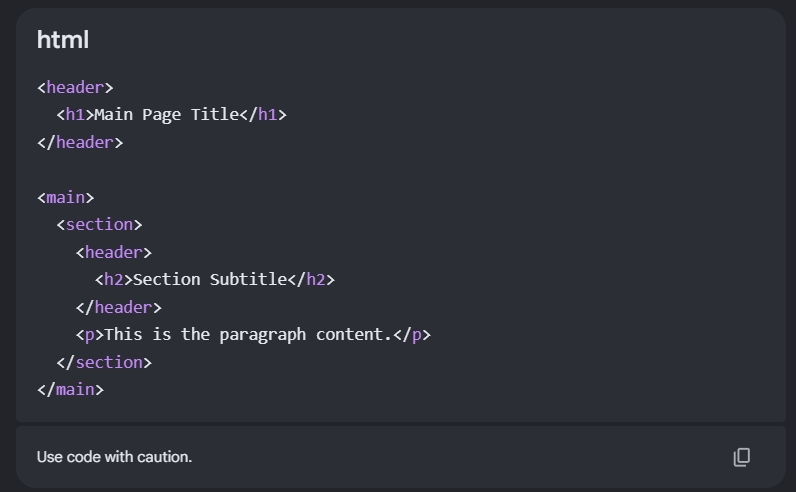
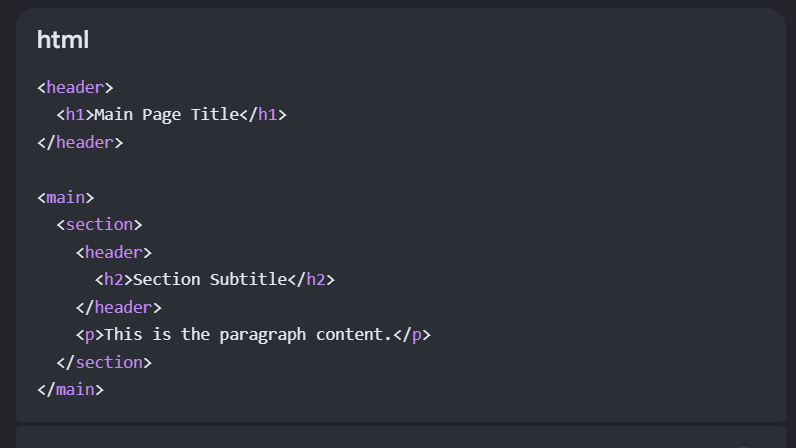
do it

diff --git a/styles.css b/styles.css
@@ -17,6 +17,14 @@
   animation-duration: 0.5s;
 }
 
+* {
+  box-sizing: border-box;
+}
+
+img {
+  display: block;
+}
+
 /**/
 /* Background, Title (h1), subtitle (h2 & h3) */
 /* Font color, Size, Style, width */
@@ -265,6 +273,7 @@ caption {
 .ch3 p {
   margin-top: 0;
 }
+
 .ch3 h4 {
   background-color: #3d5a80;
   color: #f7e0d4;
@@ -284,7 +293,10 @@ caption {
 }
 
 .ch3 .quote img {
-  max-width: 500px;
+  max-width: 400px;
+  box-shadow: 0 4px 10px #000000;
+  display: inline-block;
+  margin: 0rem 2rem;
 }
 
 .nowrap {
@@ -502,6 +514,112 @@ caption {
 }
 
 /**/
+/* GALLERY */
+/**/
+
+.gallery {
+  background-color: #293241;
+  margin: 0rem;
+  padding: 0rem 1.5rem 3rem 1.5rem;
+  border-bottom: 3px solid #f5f5f5;
+}
+
+.gallery h2 {
+  color: #ee6c4d;
+  font-weight: 800;
+  margin: 0;
+  padding: 1.5rem 0;
+}
+
+.gallery-container {
+  display: grid;
+  grid-template-columns: repeat(3, 1fr);
+  grid-auto-rows: minmax(300px, auto);
+  gap: 1rem;
+  padding: 0rem;
+}
+
+.gallery-hide {
+  display: none;
+}
+
+.gallery-item {
+  background-color: #f5f5f5;
+  box-shadow: 0 4px 10px #000000;
+  color: #293241;
+  padding: 1rem;
+}
+
+.gallery-item:nth-child(1) {
+  grid-column: span 2;
+  grid-row: span 2;
+  background-image: url("Display/IMG-01--LAKESIDE-CABIN.jpg");
+  background-size: cover;
+  background-repeat: no-repeat;
+  background-position: center bottom;
+}
+.gallery-item:nth-child(2) {
+  background-image: url("Display/IMG-02--SUNSET-FOREST.jpg");
+  background-size: cover;
+  background-repeat: no-repeat;
+  background-position: center center;
+}
+.gallery-item:nth-child(3) {
+  background-image: url("Display/IMG-03--RAVINE.jpg");
+  background-size: cover;
+  background-repeat: no-repeat;
+  background-position: center center;
+}
+.gallery-item:nth-child(4) {
+  background-image: url("Display/IMG-04--COFFEE-BOOK.jpg");
+  background-size: cover;
+  background-repeat: no-repeat;
+  background-position: center bottom;
+}
+.gallery-item:nth-child(5) {
+  grid-column: span 2;
+  grid-row: span 2;
+  background-image: url("Display/IMG-05--DOG-PARK.jpg");
+  background-size: cover;
+  background-repeat: no-repeat;
+  background-position: center bottom;
+}
+.gallery-item:nth-child(6) {
+  background-image: url("Display/IMG-06--DOG-SLEEP.jpg");
+  background-size: cover;
+  background-repeat: no-repeat;
+  background-position: center bottom;
+}
+
+@media (max-width: 768px) {
+  .gallery-container {
+    grid-template-columns: repeat(1, 1fr 1fr);
+    grid-auto-rows: minmax(125px, auto);
+  }
+  /*   .gallery-item:nth-child(4) {
+    grid-column: span 2;
+    grid-row: span 2;
+    background-image: url("Display/IMG-05--DOG-PARK.jpg");
+    background-size: cover;
+    background-repeat: no-repeat;
+    background-position: center bottom;
+  }
+  .gallery-item:nth-child(5) {
+    grid-column: span 1;
+    grid-row: span 1;
+    background-image: url("Display/IMG-04--COFFEE-BOOK.jpg");
+    background-size: cover;
+    background-repeat: no-repeat;
+    background-position: center bottom;
+  } */
+
+  .gallery-item:nth-child(5) {
+    grid-column: 1 / 3;
+    grid-row: 4 / 6;
+  }
+}
+
+/**/
 /* REVIEWS */
 /**/
 
@@ -569,6 +687,13 @@ caption {
   font-weight: 800;
   margin-bottom: 0.5rem;
   font-size: 1.618rem;
+}
+
+.review-user-role {
+  font-size: 1rem;
+  color: #555555;
+  line-height: 1.5;
+  margin-left: 0.1rem;
 }
 
 .review-rating {

diff --git a/index.html b/index.html
@@ -361,7 +361,22 @@
               title="HTML Structure Guidance"
               width="100%"
               height="Auto"
+              loading="lazy"
             />
+            <a
+              href="https://youtu.be/OXGznpKZ_sA?si=TDEUmg7ziyc9gIWN&t=16716"
+              target="_blank"
+            >
+              <img
+                src="Display/IMG-08--HTML-GRID-DISPLAY.png"
+                alt="HTML Grid Display"
+                title="HTML Grid Display Guidance"
+                width="100%"
+                height="auto"
+                loading="lazy"
+              />
+            </a>
+
             <br />
             &#8220;Loving The Experience&#8221; &#8212;
             <span class="nowrap">Tester 1</span>
@@ -379,7 +394,23 @@
             consequuntur velit nam voluptas in accusantium!
           </p>
         </div>
-        <br />
+      </section>
+
+      <!---->
+      <!-- GALLERY -->
+      <!---->
+
+      <section id="gallery" class="gallery">
+        <h2>Gallery</h2>
+
+        <div class="gallery-container">
+          <div class="gallery-item"><span class="gallery-hide">1</span></div>
+          <div class="gallery-item"><span class="gallery-hide">2</span></div>
+          <div class="gallery-item"><span class="gallery-hide">3</span></div>
+          <div class="gallery-item"><span class="gallery-hide">4</span></div>
+          <div class="gallery-item"><span class="gallery-hide">5</span></div>
+          <div class="gallery-item"><span class="gallery-hide">6</span></div>
+        </div>
       </section>
 
       <!---->
@@ -394,7 +425,8 @@
           <article class="review-box">
             <div class="review-title">
               <span class="review-user">Alex M.</span
-              ><span class="review-rating"> ★★★★★</span>
+              ><span class="review-rating"> ★★★★★</span><br />
+              <span class="review-user-role">Verified Reviewer</span>
             </div>
             <p class="review-text">
               &#8220;These places exceeded my expectations!&#8221;
@@ -403,7 +435,8 @@
           <article class="review-box">
             <div class="review-title">
               <span class="review-user">Karina K.</span
-              ><span class="review-rating"> ★★★★</span>
+              ><span class="review-rating"> ★★★★</span><br />
+              <span class="review-user-role">Verified Reviewer</span>
             </div>
             <p class="review-text">
               &#8220;These vacation plan is nice but a bit pricy&#8221;
@@ -412,7 +445,8 @@
           <article class="review-box">
             <div class="review-title">
               <span class="review-user">David L.</span
-              ><span class="review-rating"> ★★★★⯨</span>
+              ><span class="review-rating"> ★★★★⯨</span><br />
+              <span class="review-user-role">Verified Reviewer</span>
             </div>
             <p class="review-text">
               &#8220;Would love to get a new update for more places to go and
